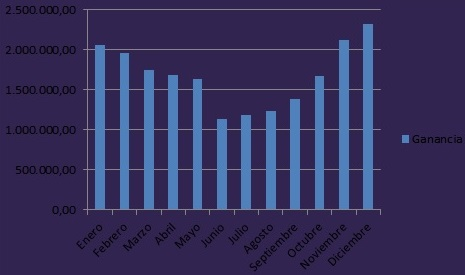
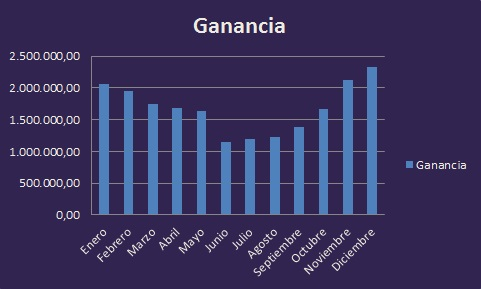
graficos
graficos: se cambio colores de textos de negro a gris claro.
se modificó diciplinas por disciplinas

diff --git a/gerente/home.html b/gerente/home.html
@@ -23,10 +23,10 @@
 					<nav>
 					<p></p>
 						<ul>
-							<li><a href="#inicio">Inicio</a></li>
+							<li><a href="#home">Inicio</a></li>
 							<li><a href="clientes.html">Clientes</a></li>
 							<li><a href="empleados.html">Empleados</a></li>							
-							<li><a href="diciplinas.html">Diciplinas</a></li>
+							<li><a href="disciplinas.html">Disciplinas</a></li>
 							<li><a href="eventos.html">Eventos</a></li>							
 							<li><a href="../index.html">Cerrar Sesion</a></li>
 						</ul>
@@ -38,7 +38,7 @@
 			<div id="wrapper">
 
 				<!-- consultarseguimineto -->
-					<section id="inicio" class="wrapper">
+					<section id="home" class="wrapper">
 						<div class="inner">
 							<h1 class="major">Fernando Storchi</h1>
 							<p></p>
@@ -49,8 +49,10 @@
 									</div>
 									
 									<img src="images/disciplinas por porcentaje.jpg" alt="porcentaje" height="40%" width="60%">
+									<hr>
 									<p> Cantidad de clientes mensuales</p>
 									<img src="images/clientes mensuales.jpg" alt="Logo de Energym" height="40%" width="60%">
+									<hr>
 									<p> Cantidad de ingresos mensuales</p>
 									<img src="images/ganancias.jpg" alt="Logo de Energym" height="40%" width="60%">
 							        <div>
@@ -73,13 +75,13 @@
 			</footer>
 
 		<!-- Scripts -->
-			<script src="assets/js/jquery.min.js"></script>
-			<script src="assets/js/jquery.scrollex.min.js"></script>
-			<script src="assets/js/jquery.scrolly.min.js"></script>
-			<script src="assets/js/skel.min.js"></script>
-			<script src="assets/js/util.js"></script>
+			<script src="../assets/js/jquery.min.js"></script>
+			<script src="../assets/js/jquery.scrollex.min.js"></script>
+			<script src="../assets/js/jquery.scrolly.min.js"></script>
+			<script src="../assets/js/skel.min.js"></script>
+			<script src="../assets/js/util.js"></script>
 			<!--[if lte IE 8]><script src="assets/js/ie/respond.min.js"></script><![endif]-->
-			<script src="assets/js/main.js"></script>
+			<script src="../assets/js/main.js"></script>
 
 	</body>
 </html>

diff --git a/gerente/clientes.html b/gerente/clientes.html
@@ -26,7 +26,7 @@
 							<li><a href="home.html">Inicio</a></li>
 							<li><a href="#clientes">Clientes</a></li>
 							<li><a href="empleados.html">Empleados</a></li>
-							<li><a href="diciplinas.html">Diciplinas</a></li>
+							<li><a href="disciplinas.html">Disciplinas</a></li>
 							<li><a href="eventos.html">Eventos</a></li>							
 							<li><a href="../index.html">Cerrar Sesion</a></li>
 						</ul>
@@ -179,7 +179,7 @@
 												<tr>
 													<td>Toledo Lucas</td>
 													<td>11.545.153</td>
-													<td>3624-963256</td>
+													<td>3624-953256</td>
 													<td>23</td>
 													<td>Funcional</td>
 												</tr>
@@ -239,13 +239,13 @@
 		
 
 		<!-- Scripts -->
-			<script src="assets/js/jquery.min.js"></script>
-			<script src="assets/js/jquery.scrollex.min.js"></script>
-			<script src="assets/js/jquery.scrolly.min.js"></script>
-			<script src="assets/js/skel.min.js"></script>
-			<script src="assets/js/util.js"></script>
+			<script src="../assets/js/jquery.min.js"></script>
+			<script src="../assets/js/jquery.scrollex.min.js"></script>
+			<script src="../assets/js/jquery.scrolly.min.js"></script>
+			<script src="../assets/js/skel.min.js"></script>
+			<script src="../assets/js/util.js"></script>
 			<!--[if lte IE 8]><script src="assets/js/ie/respond.min.js"></script><![endif]-->
-			<script src="assets/js/main.js"></script>
+			<script src="../assets/js/main.js"></script>
 
 	</body>
 </html>

diff --git a/gerente/eventos.html b/gerente/eventos.html
@@ -27,7 +27,7 @@
 							<li><a href="home.html">Inicio</a></li>
 							<li><a href="clientes.html">Clientes</a></li>
 							<li><a href="empleados.html">Empleados</a></li>												
-							<li><a href="diciplinas.html">Diciplinas</a></li>
+							<li><a href="disciplinas.html">Disciplinas</a></li>
 							<li><a href="#eventos">Eventos</a></li>							
 							<li><a href="../index.html">Cerrar Sesion</a></li>
 						</ul>
@@ -137,13 +137,13 @@
 
 		<!-- Scripts -->
 			
-			<script src="assets/js/jquery.min.js"></script>
-			<script src="assets/js/jquery.scrollex.min.js"></script>
-			<script src="assets/js/jquery.scrolly.min.js"></script>
-			<script src="assets/js/skel.min.js"></script>
-			<script src="assets/js/util.js"></script>
+			<script src="../assets/js/jquery.min.js"></script>
+			<script src="../assets/js/jquery.scrollex.min.js"></script>
+			<script src="../assets/js/jquery.scrolly.min.js"></script>
+			<script src="../assets/js/skel.min.js"></script>
+			<script src="../assets/js/util.js"></script>
 			<!--[if lte IE 8]><script src="assets/js/ie/respond.min.js"></script><![endif]-->
-			<script src="assets/js/main.js"></script>
+			<script src="../assets/js/main.js"></script>
 
 	</body>
 </html>

diff --git a/gerente/empleados.html b/gerente/empleados.html
@@ -26,7 +26,7 @@
 							<li><a href="home.html">Inicio</a></li>
 							<li><a href="clientes.html">Clientes</a></li>
 							<li><a href="#empleados">Empleados</a></li>
-							<li><a href="diciplinas.html">Diciplinas</a></li>
+							<li><a href="disciplinas.html">Disciplinas</a></li>
 							<li><a href="eventos.html">Eventos</a></li>							
 							<li><a href="../index.html">Cerrar Sesion</a></li>
 						</ul>
@@ -119,13 +119,13 @@
 			</footer>
 
 		<!-- Scripts -->
-			<script src="assets/js/jquery.min.js"></script>
-			<script src="assets/js/jquery.scrollex.min.js"></script>
-			<script src="assets/js/jquery.scrolly.min.js"></script>
-			<script src="assets/js/skel.min.js"></script>
-			<script src="assets/js/util.js"></script>
+			<script src="../assets/js/jquery.min.js"></script>
+			<script src="../assets/js/jquery.scrollex.min.js"></script>
+			<script src="../assets/js/jquery.scrolly.min.js"></script>
+			<script src="../assets/js/skel.min.js"></script>
+			<script src="../assets/js/util.js"></script>
 			<!--[if lte IE 8]><script src="assets/js/ie/respond.min.js"></script><![endif]-->
-			<script src="assets/js/main.js"></script>
+			<script src="../assets/js/main.js"></script>
 			
 
 	</body>

diff --git a/gerente/disciplinas.html b/gerente/disciplinas.html
@@ -139,13 +139,13 @@
 		
 
 		<!-- Scripts -->
-			<script src="assets/js/jquery.min.js"></script>
-			<script src="assets/js/jquery.scrollex.min.js"></script>
-			<script src="assets/js/jquery.scrolly.min.js"></script>
-			<script src="assets/js/skel.min.js"></script>
-			<script src="assets/js/util.js"></script>
+			<script src="../assets/js/jquery.min.js"></script>
+			<script src="../assets/js/jquery.scrollex.min.js"></script>
+			<script src="../assets/js/jquery.scrolly.min.js"></script>
+			<script src="../assets/js/skel.min.js"></script>
+			<script src="../assets/js/util.js"></script>
 			<!--[if lte IE 8]><script src="assets/js/ie/respond.min.js"></script><![endif]-->
-			<script src="assets/js/main.js"></script>
+			<script src="../assets/js/main.js"></script>
 		
 	</body>
 	

diff --git a/assets/css/main.css b/assets/css/main.css
@@ -1851,8 +1851,6 @@
 		text-align: right;
 	}
 
-
-
 /* Box */
 
 	.box {
@@ -3919,7 +3917,6 @@
 			}
 
 		}
-
 .current-day {
 	color: #e66b6b;
 }
@@ -3964,8 +3961,6 @@ table .color-celda {
     visibility: visible;
 }
 
-
-
 .pie {
 	position: absolute;
   right: 0;
@@ -3974,6 +3969,4 @@ table .color-celda {
   padding: 1rem;
   background-color: #efefef;
   text-align: center;
-
 }
-
